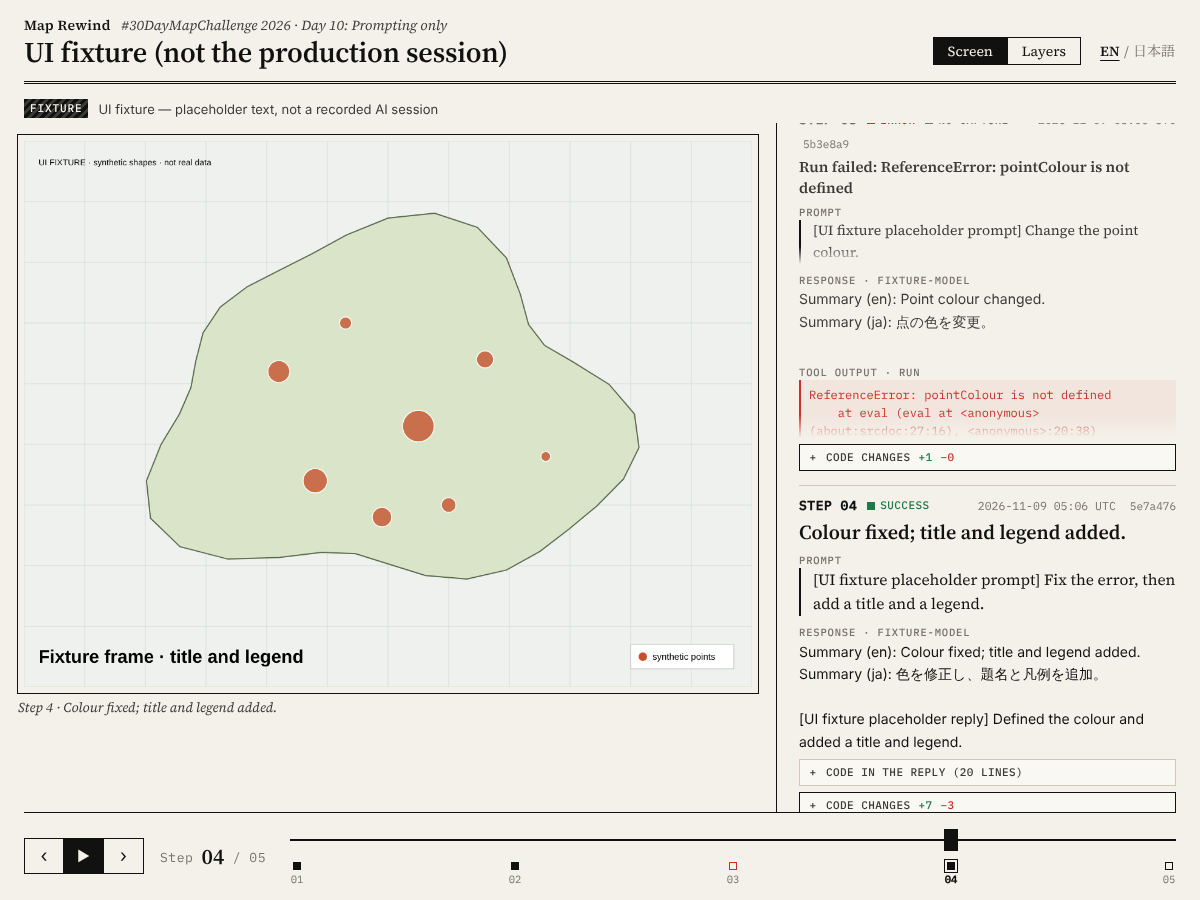
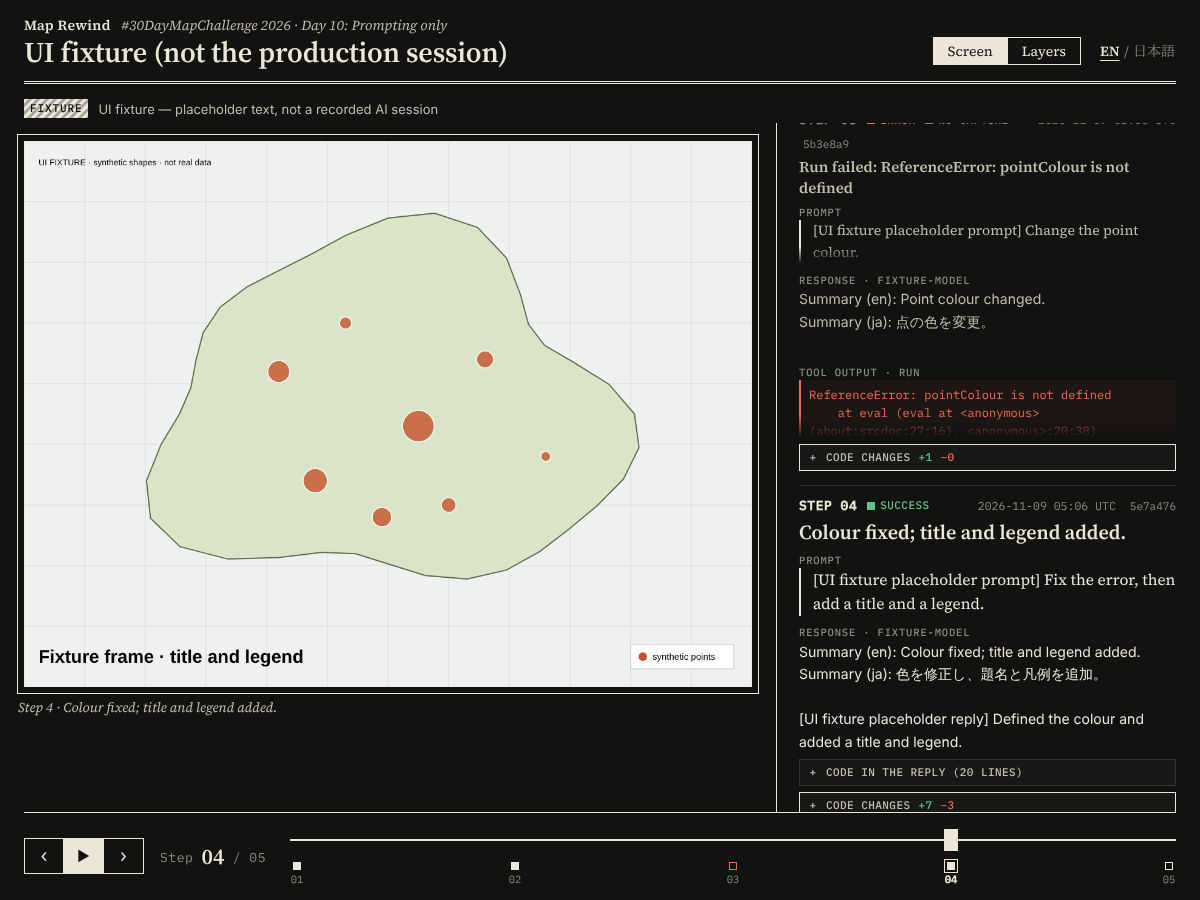
Switch player and recorder to a dark theme
- Near-black paper with warm off-white ink; same type and rules
- Layers view: light outlines, ruler and ground on the dark page; the
  selected step's layer is shown whole

diff --git a/src/style.css b/src/style.css
@@ -1,21 +1,21 @@
 /* Map Rewind — editorial map style shared with Day 8: paper, ink, hairlines, serif. */
 :root {
-  --paper: #f4f1ea;
-  --paper-2: #ebe6da;
-  --panel: #faf8f3;
-  --ink: #111110;
-  --ink-2: #3b3a36;
-  --muted: #77736a;
-  --rule: #111110;
-  --hair: #cfc8b8;
-  --ok: #1f7a46;
-  --err: #c8312a;
-  --hi: #e9e2cf;
+  --paper: #121211;
+  --paper-2: #1d1c19;
+  --panel: #181816;
+  --ink: #ebe6d8;
+  --ink-2: #c3bdae;
+  --muted: #8c877b;
+  --rule: #ebe6d8;
+  --hair: #36342e;
+  --ok: #5fc28a;
+  --err: #f06a58;
+  --hi: #26241f;
   --serif: "Source Serif 4", "Noto Serif JP", Georgia, "Hiragino Mincho ProN", serif;
   --sans: system-ui, -apple-system, "Segoe UI", "Hiragino Sans", "Noto Sans JP", sans-serif;
   --mono: "IBM Plex Mono", ui-monospace, Menlo, Consolas, monospace;
   --side-w: 400px;
-  color-scheme: light;
+  color-scheme: dark;
 }
 *, ::before, ::after { box-sizing: border-box; }
 [hidden] { display: none !important; }
@@ -78,7 +78,7 @@ button:disabled { opacity: .3; cursor: default; }
   font: 500 11px/1 var(--mono);
   letter-spacing: .08em;
   padding: 4px 6px;
-  background: repeating-linear-gradient(135deg, var(--ink) 0 3px, #3a3935 3px 6px);
+  background: repeating-linear-gradient(135deg, var(--ink) 0 3px, color-mix(in srgb, var(--ink) 70%, var(--paper)) 3px 6px);
   color: var(--paper);
 }
 .local-note::before { content: "LOCAL"; background: var(--ink); }
@@ -117,7 +117,7 @@ button:disabled { opacity: .3; cursor: default; }
 .stack-gl { display: block; width: 100% !important; height: 100% !important; cursor: grab; touch-action: none; }
 .stack-gl:active { cursor: grabbing; }
 .stack-labels { position: absolute; inset: 0; pointer-events: none; }
-.stack .sl { pointer-events: auto; font: 12.5px/1.3 var(--serif); color: var(--ink); background: rgba(244,241,234,.92); border: 1px solid var(--ink); padding: 1px 6px; white-space: nowrap; max-width: 24em; overflow: hidden; text-overflow: ellipsis; }
+.stack .sl { pointer-events: auto; font: 12.5px/1.3 var(--serif); color: var(--ink); background: color-mix(in srgb, var(--paper) 90%, transparent); border: 1px solid var(--ink); padding: 1px 6px; white-space: nowrap; max-width: 24em; overflow: hidden; text-overflow: ellipsis; }
 .stack .sl:hover { background: var(--hi); }
 .stack .sl.sel { background: var(--ink); color: var(--paper); white-space: normal; width: max-content; max-width: 14em; text-align: left; }
 .stack .sl.failed { color: var(--err); border-color: var(--err); }
@@ -183,7 +183,7 @@ button:disabled { opacity: .3; cursor: default; }
 .buttons button { width: 40px; height: 36px; font-size: 18px; line-height: 1; display: grid; place-items: center; }
 .buttons button + button { border-left: 0; }
 #play { background: var(--ink); color: var(--paper); font-size: 14px; }
-#play:hover:not(:disabled) { background: #000; }
+#play:hover:not(:disabled) { background: #fff; }
 .counter { margin-left: 16px; font: 13px/1 var(--mono); color: var(--muted); letter-spacing: .04em; white-space: nowrap; }
 .counter b { font: 600 22px/1 var(--serif); color: var(--ink); letter-spacing: 0; vertical-align: -2px; }
 .track { flex: 1; min-width: 0; position: relative; padding-top: 2px; }

diff --git a/src/stack.ts b/src/stack.ts
@@ -12,12 +12,16 @@ import type { Step } from './session';
  */
 export type StackLabels = { step: string; failed: string; noCapture: string; selectStep: (n: number) => string };
 
+// Colours for the dark page.
+const INK = 0xebe6d8;
+const ERR = 0xf06a58;
+const GROUND = 0x24231f;
 const PW = 120; // plane width in scene units (4:3)
 const PD = 90;
 const DIFF_THRESHOLD = 24; // sum of |ΔR|+|ΔG|+|ΔB| treated as a change
 const ALPHA_CHANGED = 255;
-const ALPHA_GHOST = 22;
-const ALPHA_GHOST_CURRENT = 120;
+const ALPHA_GHOST = 30;
+const ALPHA_GHOST_CURRENT = 255; // the selected step is shown whole
 
 type Layer = {
   group: THREE.Group;
@@ -73,11 +77,11 @@ export class StackView {
     const rx = PW / 2 + 8;
     const rz = -PD / 2;
     const top = (N - 1) * this.gap;
-    this.scene.add(line([new THREE.Vector3(rx, -2, rz), new THREE.Vector3(rx, top + 2, rz)], 0x000000, 0.9));
+    this.scene.add(line([new THREE.Vector3(rx, -2, rz), new THREE.Vector3(rx, top + 2, rz)], INK, 0.9));
     // Ground under the first layer.
     const ground = new THREE.Mesh(
       new THREE.PlaneGeometry(PW + 14, PD + 14),
-      new THREE.MeshBasicMaterial({ color: 0xe4dfd2, transparent: true, opacity: 0.55, depthWrite: false, side: THREE.DoubleSide }),
+      new THREE.MeshBasicMaterial({ color: GROUND, transparent: true, opacity: 0.9, depthWrite: false, side: THREE.DoubleSide }),
     );
     ground.rotation.x = -Math.PI / 2;
     ground.position.y = -1.2;
@@ -88,10 +92,10 @@ export class StackView {
       const y = i * this.gap;
       const group = new THREE.Group();
       group.position.y = y;
-      const outline = rect(PW, PD, 0x000000, 0.5);
+      const outline = rect(PW, PD, INK, 0.5);
       group.add(outline);
       this.scene.add(group);
-      const tick = line([new THREE.Vector3(rx, y, rz), new THREE.Vector3(rx + 3, y, rz)], 0x000000, 0.9);
+      const tick = line([new THREE.Vector3(rx, y, rz), new THREE.Vector3(rx + 3, y, rz)], INK, 0.9);
       this.scene.add(tick);
       const button = document.createElement('button');
       button.type = 'button';
@@ -187,7 +191,7 @@ export class StackView {
       }
       const om = layer.outline.material as THREE.LineBasicMaterial;
       const failed = step.status === 'error';
-      om.color.set(failed && past ? 0xc8312a : 0x000000);
+      om.color.set(failed && past ? ERR : INK);
       om.opacity = !past ? 0.12 : isCur ? 0.95 : step.frameIndex === null ? 0.55 : 0.4;
       (layer.tick.material as THREE.LineBasicMaterial).opacity = past ? 0.9 : 0.25;
       const b = layer.button;

diff --git a/src/record/record.css b/src/record/record.css
@@ -1,11 +1,11 @@
 /* Recorder — same editorial style as the player. */
 :root {
-  --paper: #f4f1ea; --paper-2: #ebe6da; --panel: #faf8f3; --ink: #111110; --ink-2: #3b3a36; --muted: #77736a;
-  --hair: #cfc8b8; --ok: #1f7a46; --err: #c8312a; --hi: #e9e2cf;
+  --paper: #121211; --paper-2: #1d1c19; --panel: #181816; --ink: #ebe6d8; --ink-2: #c3bdae; --muted: #8c877b;
+  --hair: #36342e; --ok: #5fc28a; --err: #f06a58; --hi: #26241f;
   --serif: "Source Serif 4", "Noto Serif JP", Georgia, "Hiragino Mincho ProN", serif;
   --sans: system-ui, -apple-system, "Segoe UI", "Hiragino Sans", "Noto Sans JP", sans-serif;
   --mono: "IBM Plex Mono", ui-monospace, Menlo, Consolas, monospace;
-  color-scheme: light;
+  color-scheme: dark;
 }
 *, ::before, ::after { box-sizing: border-box; }
 [hidden] { display: none !important; }
@@ -15,7 +15,7 @@ button, .filebtn span { font: 14px/1.2 var(--serif); color: inherit; background:
 button:hover:not(:disabled), .filebtn:hover span { background: var(--hi); }
 button:disabled { opacity: .3; cursor: default; }
 button.primary { background: var(--ink); color: var(--paper); }
-button.primary:hover:not(:disabled) { background: #000; }
+button.primary:hover:not(:disabled) { background: #fff; }
 button.danger { color: var(--err); border-color: var(--err); }
 .filebtn { position: relative; display: inline-block; }
 .filebtn input { position: absolute; inset: 0; opacity: 0; width: 100%; cursor: pointer; }
@@ -118,7 +118,7 @@ h2 { font: 500 11px/1 var(--mono); text-transform: uppercase; letter-spacing: .1
 
 dialog { border: 1px solid var(--ink); background: var(--paper); max-width: 520px; width: calc(100% - 32px); padding: 22px 24px; }
 dialog h2 { margin-top: 0; border-top: 0; padding-top: 0; font: 600 22px/1.2 var(--serif); text-transform: none; letter-spacing: 0; }
-dialog::backdrop { background: rgb(17 17 16 / .4); }
+dialog::backdrop { background: rgb(0 0 0 / .6); }
 dialog .row { justify-content: flex-end; margin-top: 12px; }
 
 @media (max-width: 900px) {
